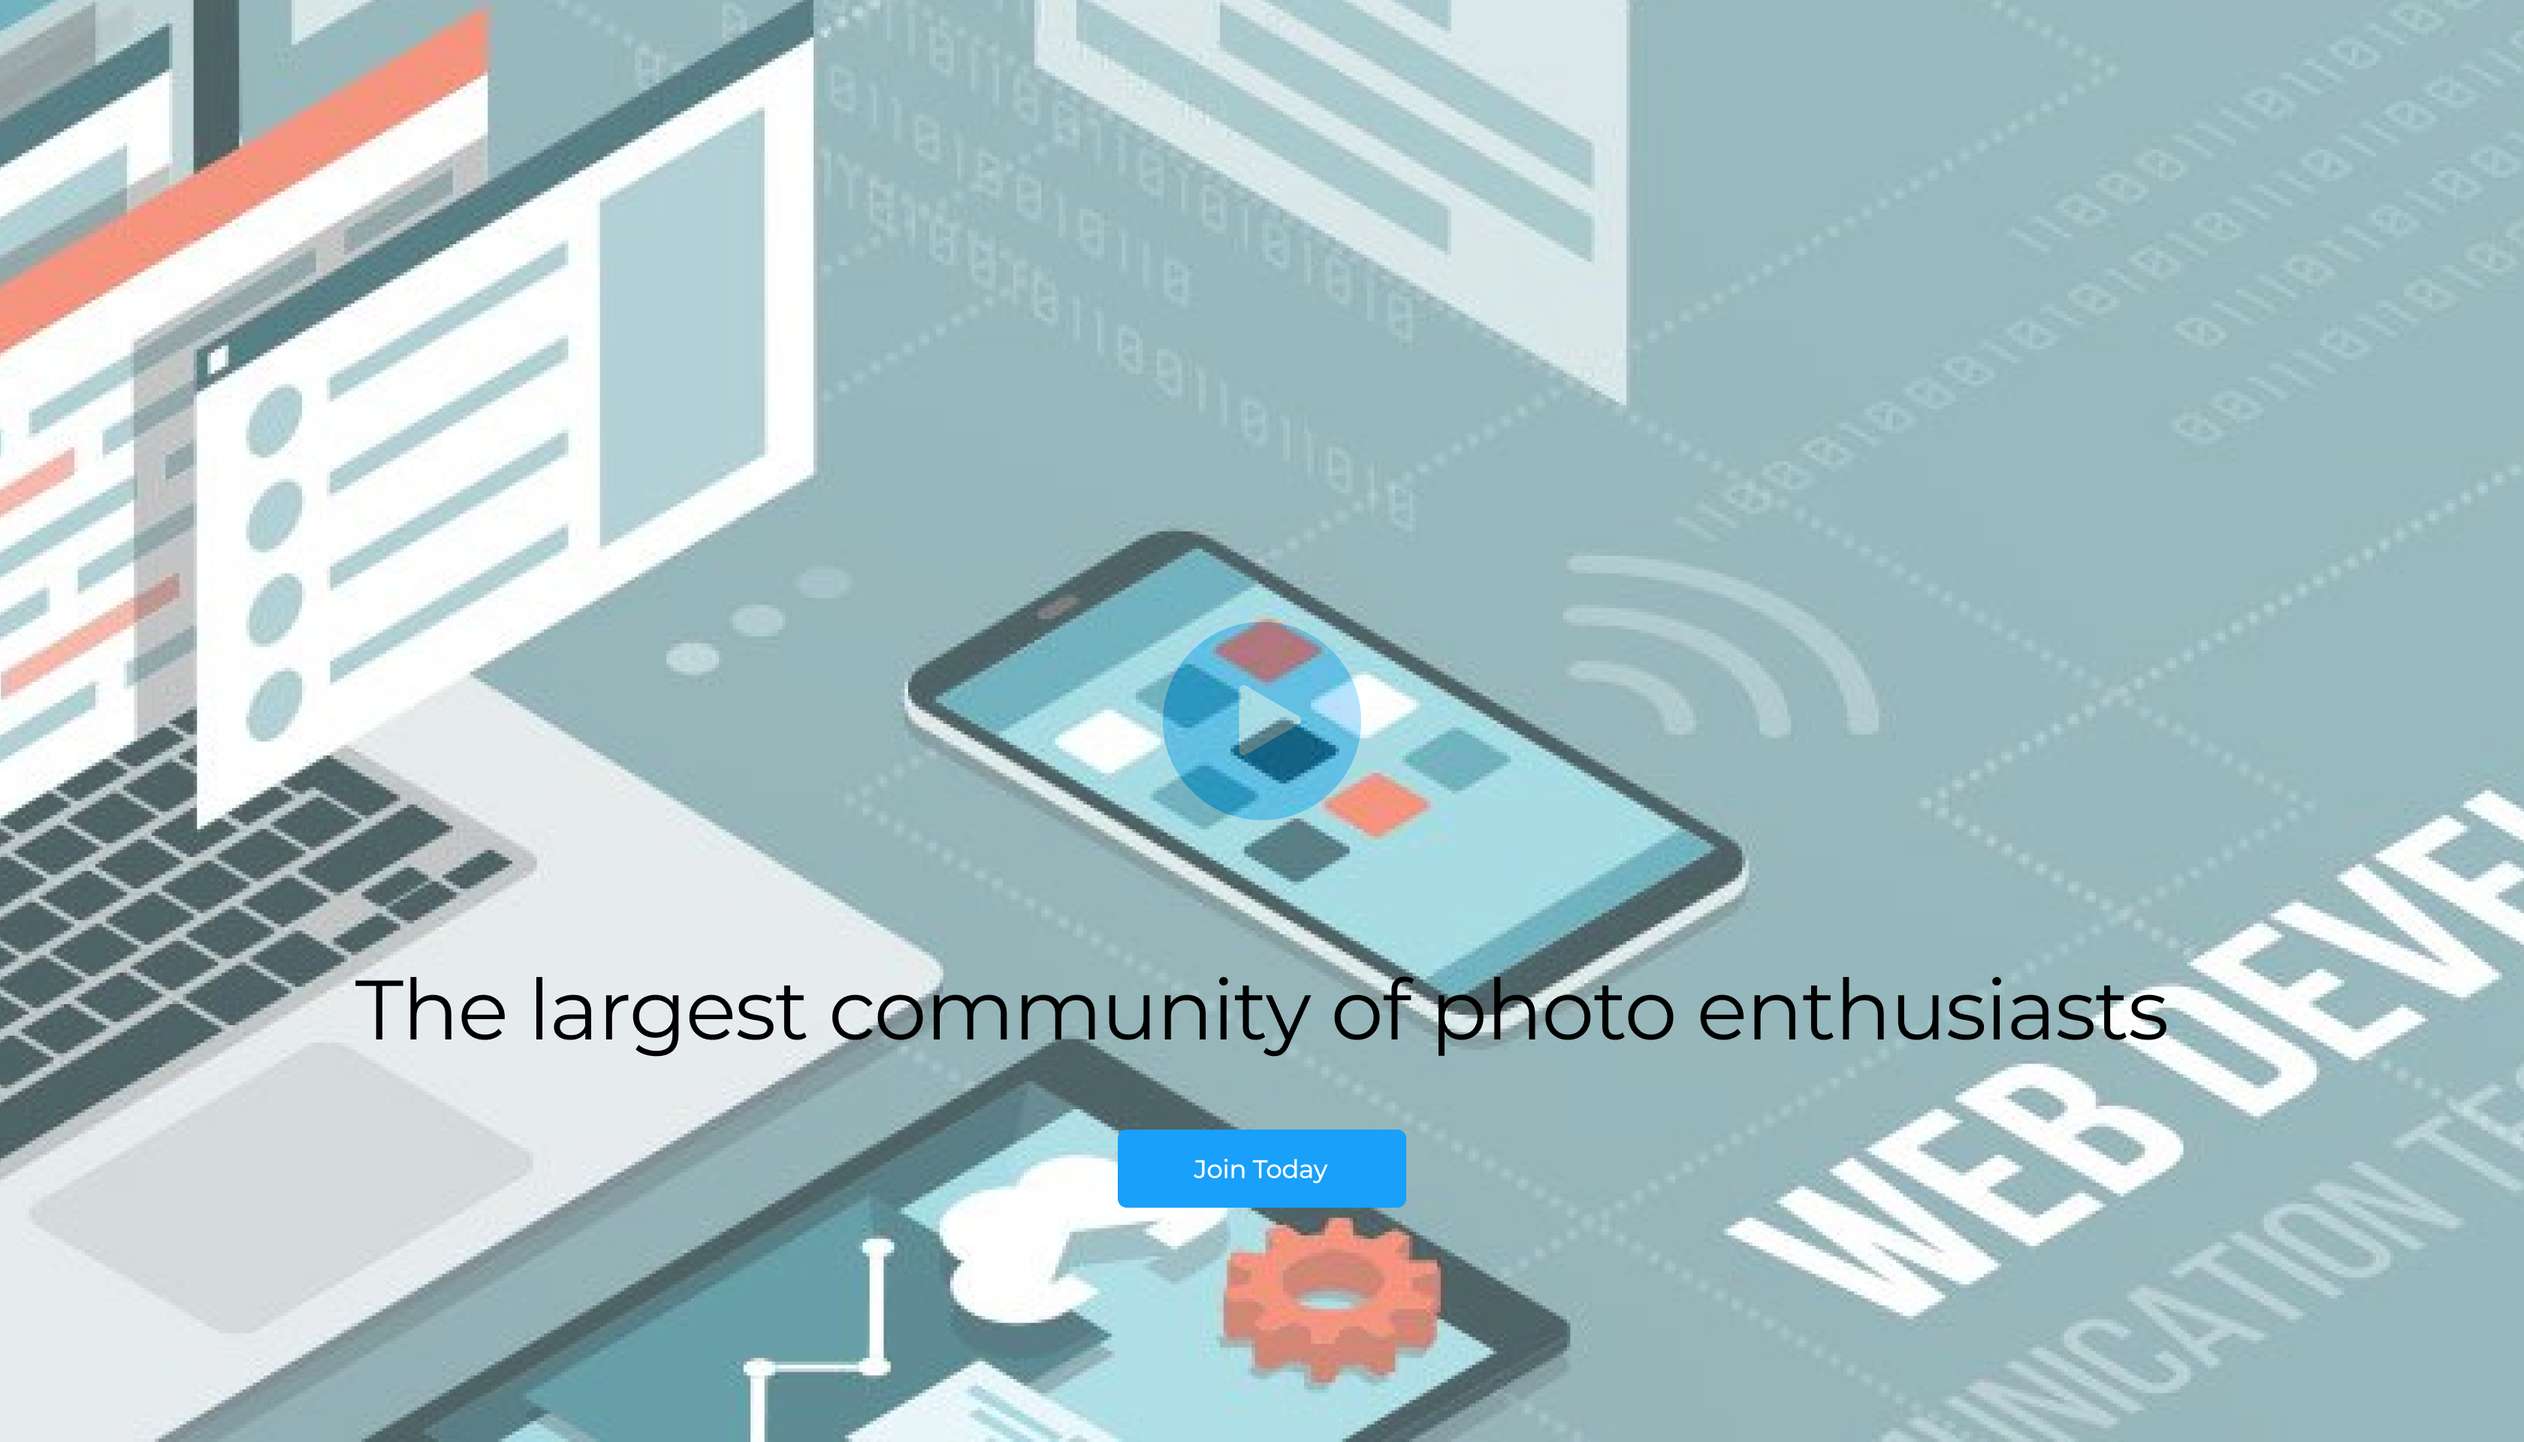
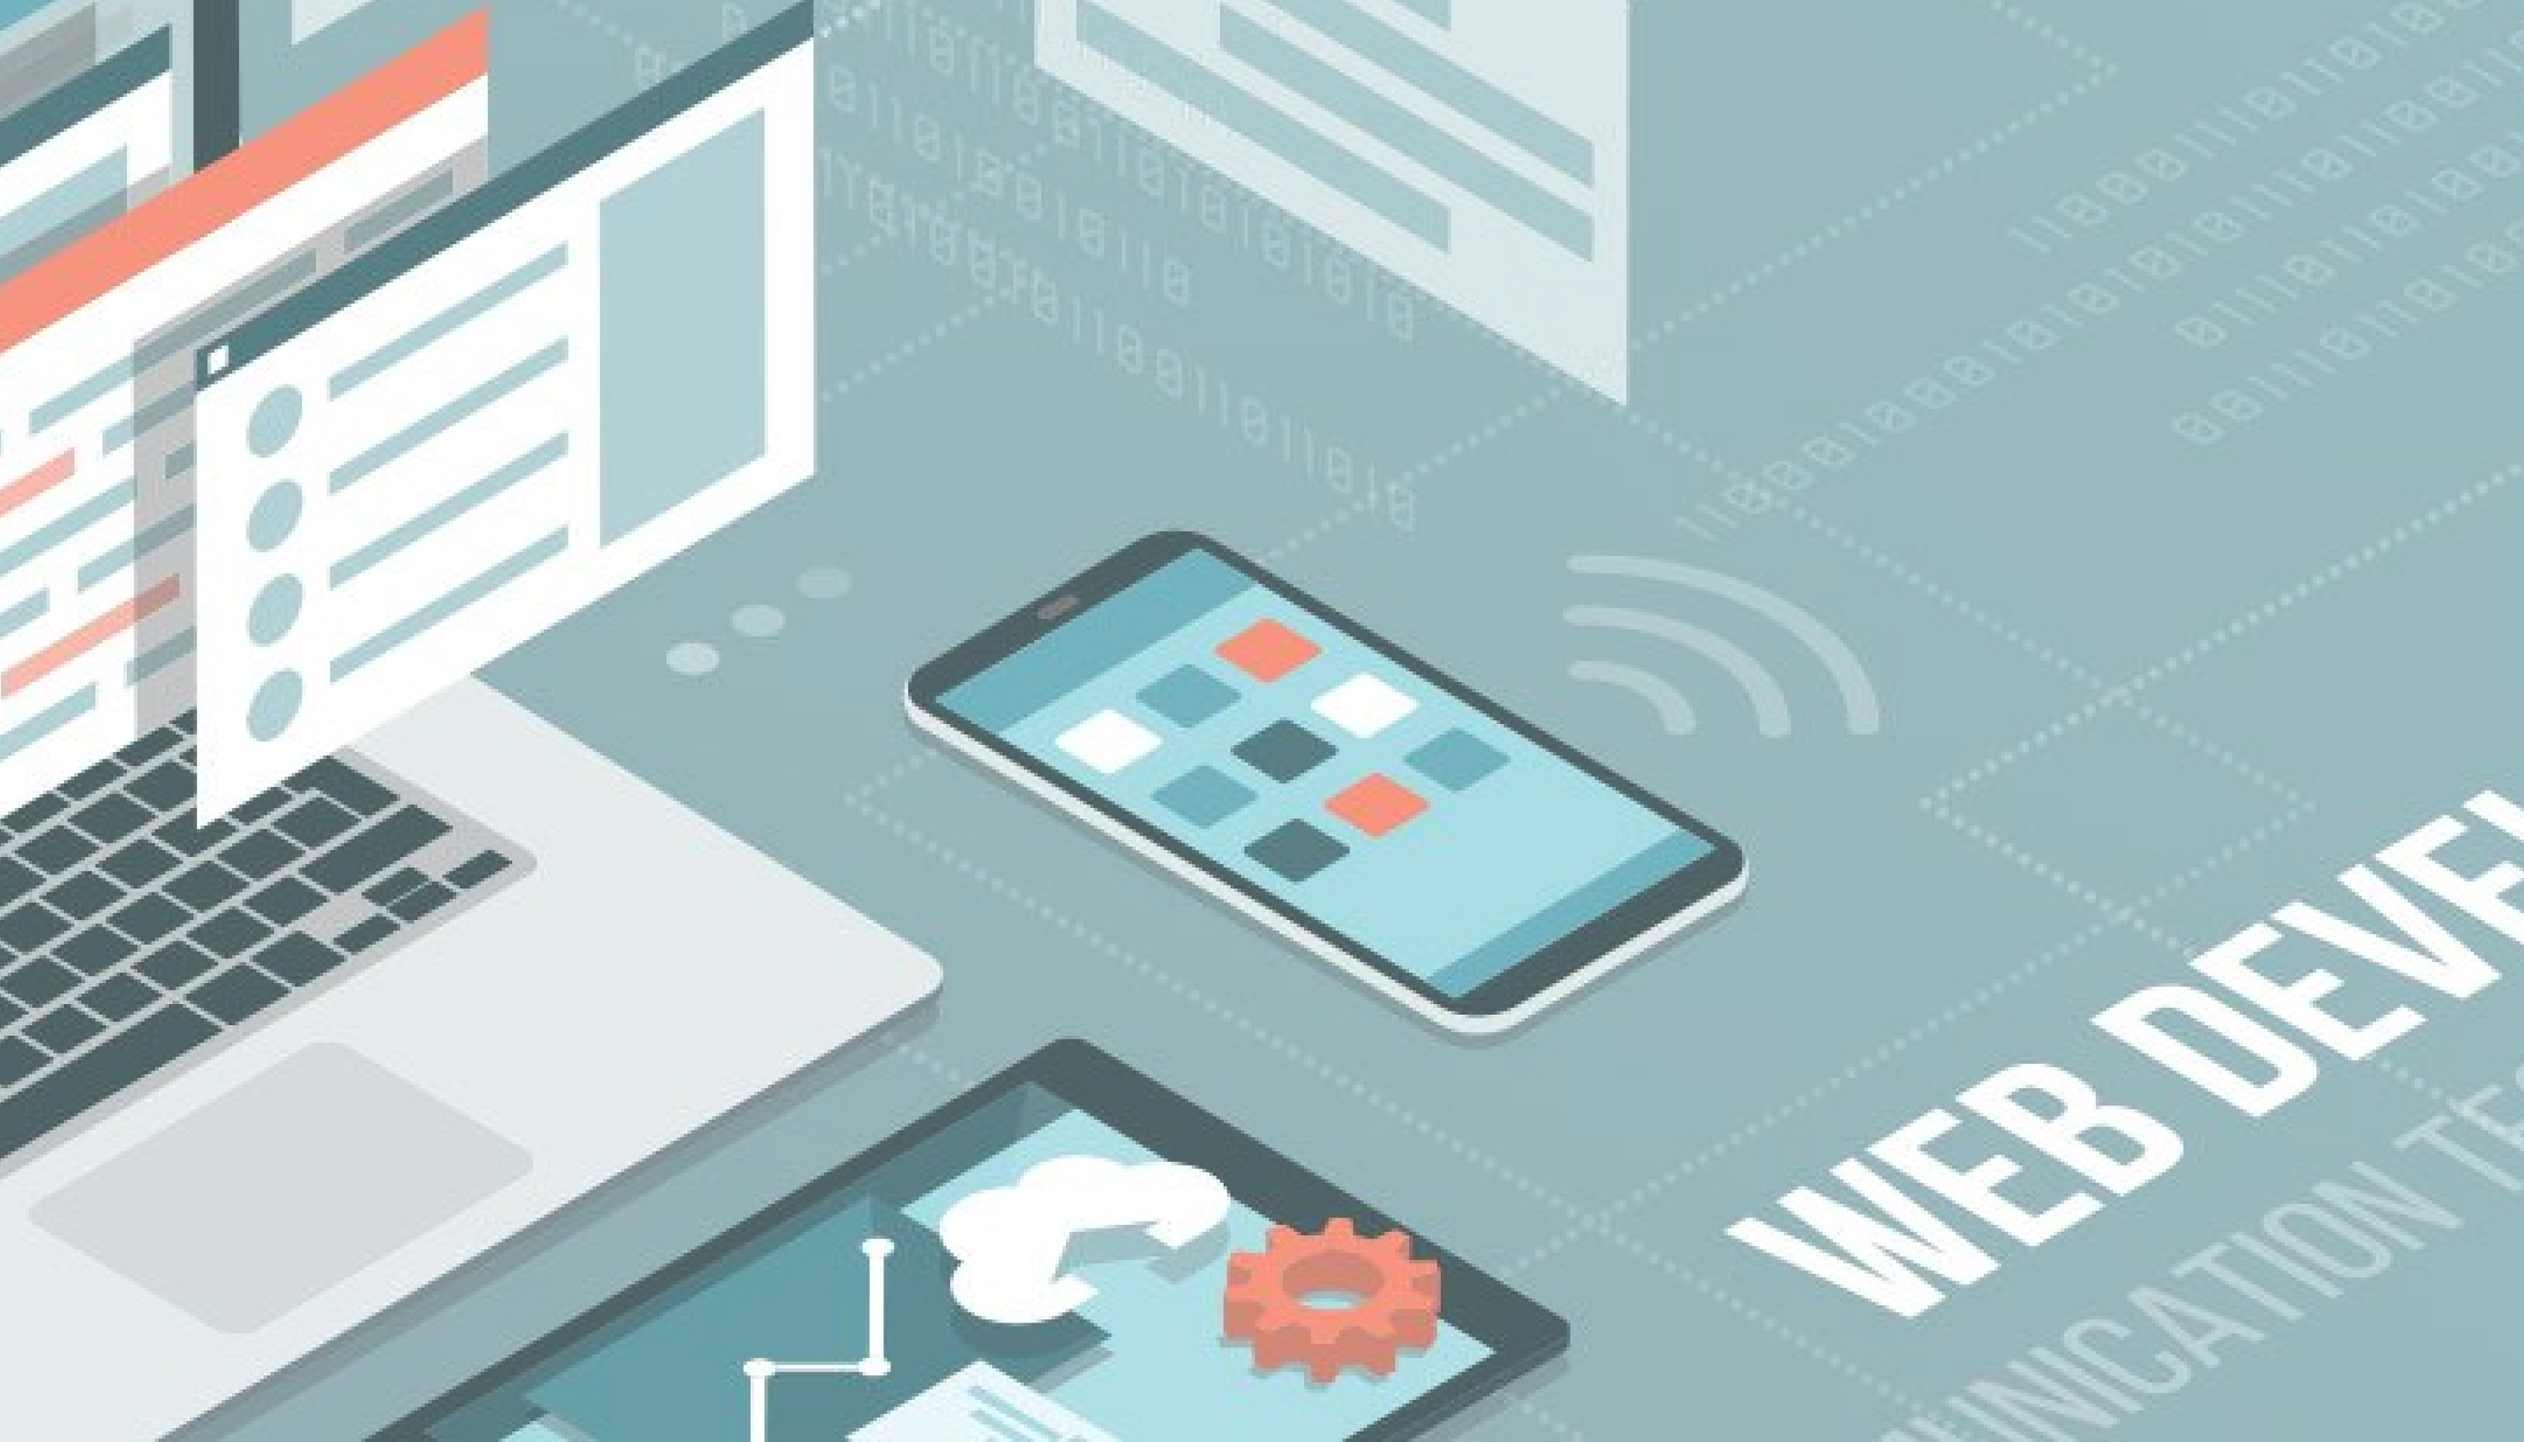
final commit Completed

Changed region(s): [[0.1562, 0.6875, 0.875, 0.7188], [0.4375, 0.4375, 0.5625, 0.5625], [0.4375, 0.7812, 0.5625, 0.8438]]

diff --git a/index.html b/index.html
@@ -8,105 +8,112 @@
     <link href="style.css" rel="stylesheet">
     <link href="https://cdn.jsdelivr.net/npm/bootstrap@5.3.3/dist/css/bootstrap.min.css" rel="stylesheet"
         integrity="sha384-QWTKZyjpPEjISv5WaRU9OFeRpok6YctnYmDr5pNlyT2bRjXh0JMhjY6hW+ALEwIH" crossorigin="anonymous">
+
 </head>
 
 <body>
-    <nav class="navbar navbar-expand-lg navbar-light ">
-        <div class="container-fluid">
-            <img src="Images/download.png" class="img-fluid mx-5" alt="Gemini Logo" width="15%" height="10%">
-            <button class="navbar-toggler" type="button" data-bs-toggle="collapse"
-                data-bs-target="#navbarSupportedContent" aria-controls="navbarSupportedContent" aria-expanded="false"
-                aria-label="Toggle navigation">
-                <span class="navbar-toggler-icon"></span>
-            </button>
-            <div class="collapse navbar-collapse" id="navbarSupportedContent">
-                <ul class="navbar-nav me-auto mb-lg-0">
-                    <li class="nav-item mx-3">
-                        <a class="nav-link active text-primary" aria-current="page" href="#pricing">Pricing</a>
-                    </li>
-                    <li class="nav-item mx-3">
-                        <a class="nav-link text-primary" href="#community">Community</a>
-                    </li>
-                    <li class="nav-item mx-3">
-                        <a class="nav-link text-primary" href="#support">Support</a>
-                    </li>
-                </ul>
-                <div class="ms-auto mx-4 mb-lg-0">
-                    <button type="button" class="btn bg-white text-primary login mx-2 border border-primary">Log
-                        in</button>
-                    <button type=" button" class="btn btn-primary register mx-2">Register</button>
+    <!-- Navbar Section -->
+    <section>
+        <nav class="navbar navbar-expand-lg navbar-light shadow-sm px-5 fixed-top " style="background-color: white;">
+            <div class="container-fluid">
+                <img src="Images/download.png" class="img-fluid mx-5" alt="Gemini Logo" width="160" height="40">
+                <button class="navbar-toggler" type="button" data-bs-toggle="collapse"
+                    data-bs-target="#navbarSupportedContent" aria-controls="navbarSupportedContent" aria-expanded="false"
+                    aria-label="Toggle navigation">
+                    <span class="navbar-toggler-icon"></span>
+                </button>
+                <div class="collapse navbar-collapse" id="navbarSupportedContent">
+                    <ul class="navbar-nav me-auto mb-lg-0">
+                        <li class="nav-item mx-3">
+                            <a class="nav-link active text-primary" aria-current="page" href="#pricing">Pricing</a>
+                        </li>
+                        <li class="nav-item mx-3">
+                            <a class="nav-link text-primary" href="#community">Community</a>
+                        </li>
+                        <li class="nav-item mx-3">
+                            <a class="nav-link text-primary" href="#support">Support</a>
+                        </li>
+                    </ul>
+                    <ul class=" justify-content-center justify-content-end-lg mb-4 mb-lg-0">
+                        
+                            <button type="button" class="btn btn-outline-primary">Log in</button>
+                        
+                            <button type=" button" class="btn btn-primary mx-3">Register</button>
+                        
+                    </ul>
                 </div>
             </div>
+        </nav>
+    </section>
+
+    <!-- Text over image section -->
+    <div class="imt position-relative">
+        <div class="d-flex justify-content-center flex-column align-items-center gap-4 mt-3" style="isolation: isolate;">
+              <img src="Images/play.png"class="pt-5 opacity-25" alt="Intro Image" width="100">
+              <p class="text-center fs-1 fw-normal">The largest community of photo enthusiasts</p>
+              <button class="btn btn-primary">Join Today</button>
         </div>
-    </nav>
-    <div>
-        <img src="Images/image.png" class="img-fluid" alt="Main-image" width="1680px" height="960px">
     </div>
-    <div class="mt-5 mb-5 mx-5" width="750px" height="144px">
-        <p class="display-4">Snap Photos and share like </p>
-        <p class="display-4">never before</p>
-    </div>
-    <div class="row row-cols-2 g-4">
-        <div class="col">
-            <div class="card mx-5 border-light">
-                <div class="card-body ">
-                    <h5 class="card-title">Sed ut perspiciatis</h5>
-                    <p class="card-text">
+
+    <!-- Snap Section -->
+    <section class="container-fluid p-5">
+        <div class="row mb-lg-4">
+            <div class="col-12 col-lg-6 text-center text-lg-start px-4">
+                <p class="fs-1 fw-normal">Snap Photos and share like never before</p>
+            </div>
+        </div>
+        <div class="row my-2">
+            <div class="col-12 col-md-6 my-4 text-center text-lg-start">
+                <div class="px-lg-3">
+                    <h3 class="my-3">Sed ut perspiciatis</h3>
+                    <p class="my-3">
                         Nemo enim ipsam voluptatem quia voluptas sit aspernatur aut odit aut fugit, sed quia
                         consequuntur magni dolores eos qui ratione voluptatem sequi nesciunt. Neque porro quisquam est.
                     </p>
-                    <button type="button" class="btn bg-white text-primary login mx-2 border border-primary">Learn
-                        more</button>
+                    <button type="button" class="btn btn-outline-primary">Learn more</button>
                 </div>
             </div>
-        </div>
-        <div class="col">
-            <div class="card mx-5 border-light">
-                <div class="card-body">
-                    <h5 class="card-title">Lorem ipsum dolor</h5>
-                    <p class="card-text">
+            <div class="col-12 col-md-6 my-4 text-center text-lg-start">
+                <div class="px-lg-3">
+                    <h3 class="my-3">Lorem ipsum dolor</h3>
+                    <p class="my-3">
                         Amet, consectetur adipiscing elit, sed do eiusmod tempor incididunt ut labore et dolore magna
-                        aliqua. Ut enim ad minim veniam, quis nostrud exercitation ullamco laboris nisi.
+                            aliqua. Ut enim ad minim veniam, quis nostrud exercitation ullamco laboris nisi.
                     </p>
-                    <button type="button" class="btn bg-white text-primary login mx-2 border border-primary">Learn
-                        more</button>
+                    <button type="button" class="btn btn-outline-primary">Learn more</button>
                 </div>
             </div>
-        </div>
-        <div class="col">
-            <div class="card mx-5 border-light">
-                <div class="card-body">
-                    <h5 class="card-title">Nemo enim ipsam</h5>
-                    <p class="card-text">
+            <div class="col-12 col-md-6 my-4 text-center text-lg-start">
+                <div class="px-lg-3">
+                    <h3 class="my-3">Nemo enim ipsam</h3>
+                    <p class="my-3">
                         Consequuntur magni dolores eos qui ratione voluptatem sequi nesciunt. Neque porro quisquam est,
                         qui dolorem ipsum quia dolor sit amet, consectetur, adipisci velit, sed quia non numquam.
                     </p>
-                    <button type="button" class="btn bg-white text-primary login mx-2 border border-primary">Learn
-                        more</button>
+                    <button type="button" class="btn btn-outline-primary">Learn more</button>
                 </div>
             </div>
-        </div>
-        <div class="col">
-            <div class="card mx-5 border-light">
-                <div class="card-body">
-                    <h5 class="card-title">Tempor incididunt</h5>
-                    <p class="card-text">
+            <div class="col-12 col-md-6 my-4 text-center text-lg-start">
+                <div class="px-lg-3">
+                    <h3 class="my-3">Tempor incididunt</h3>
+                    <p class="my-3">
                         Eos qui ratione voluptatem sequi nesciunt. Neque porro quisquam est, qui dolorem ipsum quia
                         dolor sit amet, consectetur, adipisci velit, sed quia non numquam eius modi tempora.
                     </p>
-                    <button type="button" class="btn bg-white text-primary login mx-2 border border-primary">Learn
-                        more</button>
+                    <button type="button" class="btn btn-outline-primary">Learn more</button>
                 </div>
             </div>
         </div>
-    </div>
+    </section>
+
+    <!-- Form Section -->
     <section class="container-fluid pb-2">
-        <div class="mt-5 mb-5 mx-5">
-            <p class="display-4 text-center mb-4">Ready to take a free trial? </p>
-            <p class="display-6 text-center mx-2">Lorem ipsum dolor sit amet, consectetur adipiscing elit, sed do eiusmod
+        <div class="mt-5 mb-5 text-center mx-md-5">
+            <p class="fs-1 fw-normal text-center mb-4">Ready to take a free trial? </p>
+            <p class="fs-2 px-lg-5 my-4">Lorem ipsum dolor sit amet, consectetur adipiscing elit, sed do eiusmod
                 tempor incididunt ut labore</p>
         </div>
-        <p class="display-4 text-center mb-4">Subscribe for free </p>
+        <p class="fs-1 fw-normal text-center my-4">Subscribe for free </p>
         <div class="container-fluid px-5 my-5">
             <form class="row g-3 border">
                 <div class="col-md-4 gx-5 my-4">

diff --git a/style.css b/style.css
@@ -2,7 +2,26 @@
     margin-left: 270px;
 } */
 
-.bg-purple{
+.bg-purple {
     color: white;
     background: #7749F8;
+}
+
+
+.imt{
+    display: grid;
+    place-items: center;
+    height: 100vh;
+}
+
+.imt::before{
+    background: url(Images/image.png);
+    background-size: cover;
+    background-position: center;
+    background-repeat: no-repeat;
+    position: absolute;
+    opacity: 1;
+    content: '';
+    inset: 0;
+
 }
